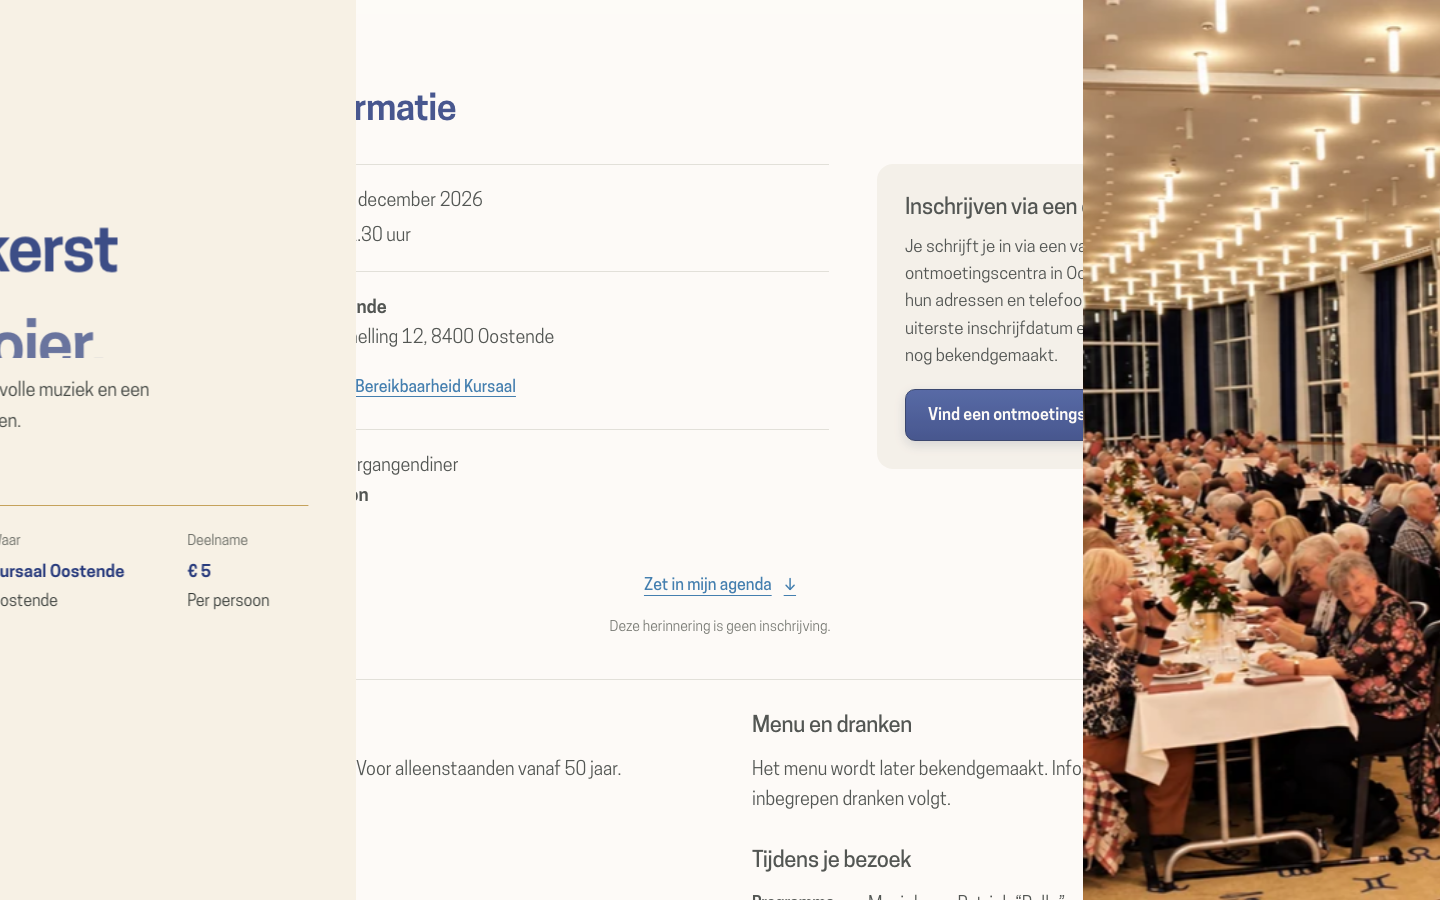
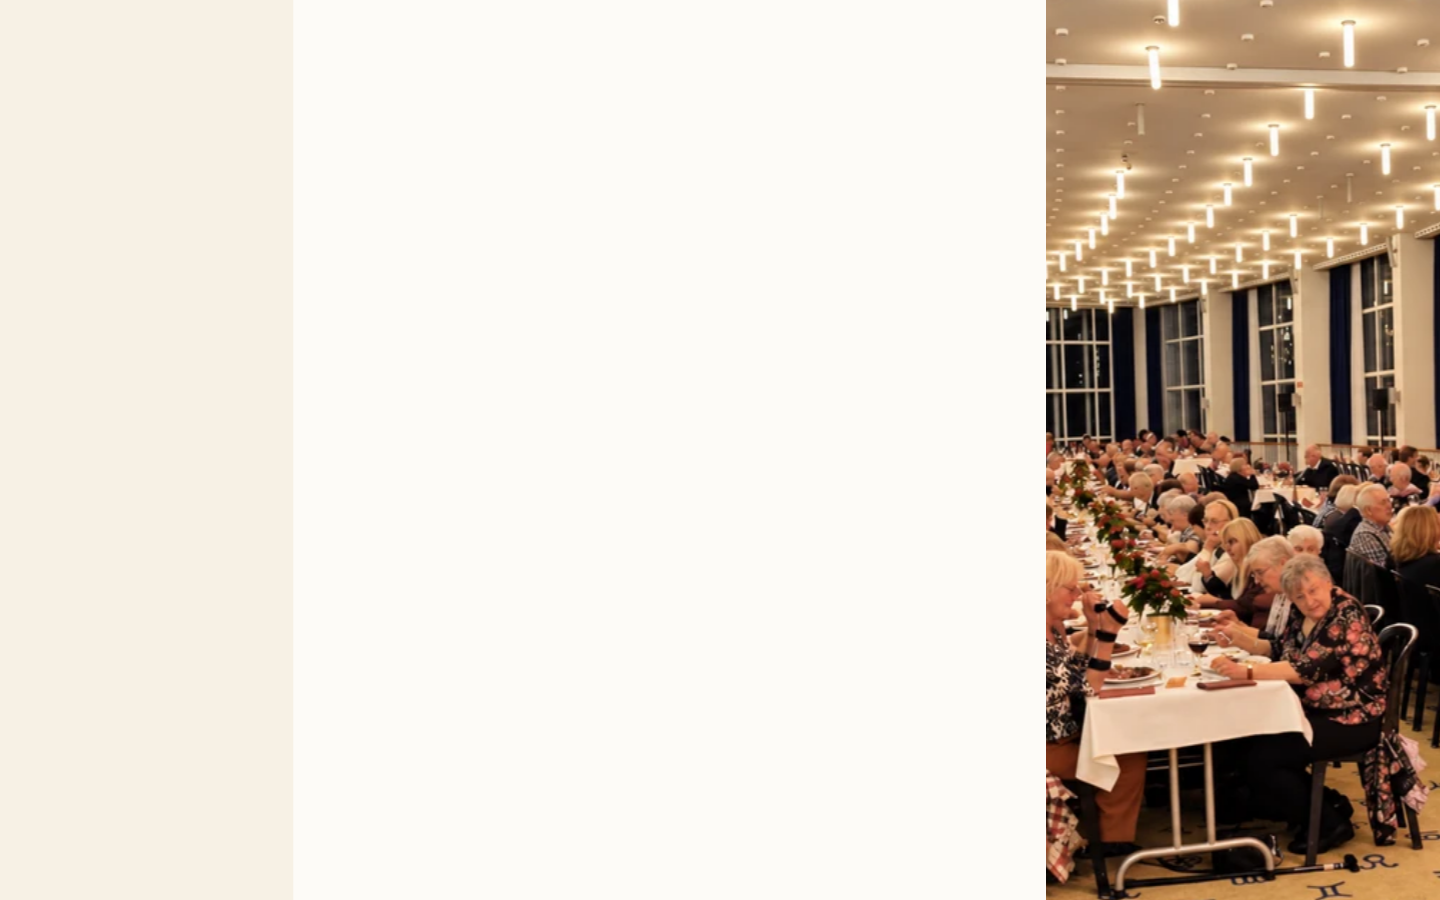
Verfijn hero-overgang met rustige onthulling en gelaagde timing

diff --git a/src/scripts/motion.ts b/src/scripts/motion.ts
@@ -72,7 +72,19 @@ function finishWhenHidden(control: ReturnType<typeof move>) {
   void control.then(() => document.removeEventListener('visibilitychange', finish));
 }
 
+const heroEntrances = new Set<ReturnType<typeof move>>();
+function finishHeroEntrance() {
+  for (const control of heroEntrances) control.complete();
+  heroEntrances.clear();
+}
+
 function startHero() {
+  const entrance = (element: HTMLElement, frames: Parameters<typeof move>[1], options: Parameters<typeof move>[2]) => {
+    const control = move(element, frames, options);
+    heroEntrances.add(control);
+    void control.then(() => heroEntrances.delete(control));
+    return control;
+  };
   const play = () => {
     if (reducedMotion.matches || (location.hash && location.hash !== '#home') || scrollY > 32) return;
     const words = [...document.querySelectorAll<HTMLElement>('.hero-word-text')];
@@ -80,7 +92,7 @@ function startHero() {
     // Individual word masks follow natural wrapping on every screen size.
     words.forEach((word, index) => {
       word.style.willChange = 'transform, opacity';
-      const control = move(word, {
+      const control = entrance(word, {
         opacity: [.15, 1],
         transform: ['translateY(110%)', 'translateY(0)'],
       }, { duration: 1.08, delay: .14 + index * .085 });
@@ -89,7 +101,7 @@ function startHero() {
     });
     const intro = document.querySelector<HTMLElement>('.hero-intro');
     if (intro) {
-      const control = move(intro, {
+      const control = entrance(intro, {
         opacity: [.45, 1], transform: ['translateY(14px)', 'translateY(0)'],
       }, { duration: .8, delay: .32 });
       finishWhenHidden(control);
@@ -100,7 +112,7 @@ function startHero() {
       // A lazy/cold image must not use up its motion while the pixels are missing.
       void photo.decode().then(() => {
         if (reducedMotion.matches || document.hidden || scrollY > 32 || (location.hash && location.hash !== '#home')) return;
-        const control = move(photo, { transform: ['scale(1.045)', 'scale(1)'] }, { duration: 1.25 });
+        const control = entrance(photo, { transform: ['scale(1.045)', 'scale(1)'] }, { duration: 1.25 });
         finishWhenHidden(control);
         void control.then(() => clearMotion(photo));
       }).catch(() => {});
@@ -162,19 +174,42 @@ function startHeroTransition() {
   const right = hero?.querySelector<HTMLElement>('.hero-photo');
   const practical = stage?.querySelector<HTMLElement>('.practical');
   if (!scene || !stage || !hero || !invitation || !left || !right || !practical) return;
+  const copy = hero.querySelector<HTMLElement>('.hero-copy');
+  const image = right.querySelector<HTMLImageElement>('img');
+  const title = practical.querySelector<HTMLElement>('h2');
+  const groups = [...practical.querySelectorAll<HTMLElement>('.practical-composition, .agenda-note, .practical-details')];
+  const smooth = (value: number) => {
+    const t = Math.min(1, Math.max(0, value));
+    return t * t * (3 - 2 * t);
+  };
   let frame = 0;
   let travel = 0;
   let enabled = false;
   const update = () => {
     frame = 0;
     if (!enabled || document.body.classList.contains('menu-open')) return;
-    const progress = Math.min(1, Math.max(0, -scene.getBoundingClientRect().top / travel));
-    // Smooth starts and finishes, with the scroll position always authoritative.
-    const eased = progress * progress * (3 - 2 * progress);
-    left.style.transform = `translate3d(${-eased * 101}%, 0, 0)`;
-    right.style.transform = `translate3d(${eased * 101}%, 0, 0)`;
-    practical.style.transform = `translate3d(0, ${(1 - eased) * 28}px, 0)`;
-    practical.style.opacity = `${.7 + eased * .3}`;
+    const distance = -scene.getBoundingClientRect().top;
+    const progress = distance >= travel - .5 ? 1 : Math.min(1, Math.max(0, distance / travel));
+    // Left opens first; the room follows a fraction later and settles before release.
+    const leftProgress = smooth((progress - .02) / .86);
+    const rightProgress = smooth((progress - .10) / .86);
+    if (progress > 0) finishHeroEntrance();
+    left.style.transform = `translate3d(${-leftProgress * 101}%, 0, 0)`;
+    right.style.transform = `translate3d(${rightProgress * 101}%, 0, 0)`;
+    if (copy) copy.style.opacity = `${1 - smooth(progress / .25)}`;
+    // Independent transform properties preserve the image's load-time zoom.
+    if (image) {
+      image.style.translate = `${-rightProgress * 1.5}% 0`;
+      image.style.scale = `${1 + rightProgress * .04}`;
+    }
+    // Keep the opening quiet until there is room to read the arriving content.
+    const reveal = (element: HTMLElement, start: number, end: number, distance: number) => {
+      const amount = smooth((progress - start) / (end - start));
+      element.style.opacity = `${amount}`;
+      element.style.transform = `translate3d(0, ${(1 - amount) * distance}px, 0)`;
+    };
+    if (title) reveal(title, .58, .82, 12);
+    groups.forEach((group, index) => reveal(group, .66 + index * .025, .92 + index * .01, 18));
     hero.style.visibility = progress === 1 ? 'hidden' : 'visible';
     hero.style.pointerEvents = progress > 0 ? 'none' : '';
     hero.inert = progress > 0;
@@ -187,14 +222,18 @@ function startHeroTransition() {
     scene.removeAttribute('data-split-active');
     scene.style.removeProperty('--split-hero-height');
     scene.style.removeProperty('--split-travel');
+    scene.style.removeProperty('--split-stage-height');
     hero.style.removeProperty('visibility');
     hero.style.removeProperty('pointer-events');
     hero.inert = practical.inert = false;
-    for (const panel of [left, right, practical]) {
+    for (const panel of [left, right, practical, copy, title, ...groups]) {
+      if (!panel) continue;
       panel.style.removeProperty('transform');
       panel.style.removeProperty('opacity');
       panel.style.removeProperty('will-change');
     }
+    image?.style.removeProperty('translate');
+    image?.style.removeProperty('scale');
     // The stacked mobile composition remains readable in ordinary document flow.
     enabled = !reducedMotion.matches && matchMedia('(min-width: 1001px)').matches;
     if (!enabled) return;
@@ -206,13 +245,24 @@ function startHeroTransition() {
     scene.style.setProperty('--split-stage-height', `${stage.getBoundingClientRect().height}px`);
     update();
   };
+  // Layout offsets exclude the reveal transforms, so anchors land precisely
+  // even when their destination is still partway through its entrance.
+  const offsetInStage = (target: HTMLElement) => {
+    let offset = 0;
+    let node: HTMLElement | null = target;
+    while (node && node !== stage) {
+      offset += node.offsetTop;
+      node = node.offsetParent as HTMLElement | null;
+    }
+    return offset;
+  };
   const revealAnchor = () => {
     const target = document.getElementById(decodeURIComponent(location.hash.slice(1)));
     if (enabled && target === hero) {
       window.scrollTo({ top: scrollY + scene.getBoundingClientRect().top, behavior: 'instant' });
       update();
     } else if (enabled && target && practical.contains(target)) {
-      window.scrollTo({ top: scrollY + scene.getBoundingClientRect().top + travel + Math.max(0, target.getBoundingClientRect().top - practical.getBoundingClientRect().top + practical.offsetTop - 24), behavior: 'instant' });
+      window.scrollTo({ top: scrollY + scene.getBoundingClientRect().top + travel + Math.max(0, offsetInStage(target) - 24), behavior: 'instant' });
       update();
     }
   };
@@ -231,7 +281,7 @@ function startHeroTransition() {
   practical.addEventListener('focusin', event => {
     if (!enabled || hero.style.visibility === 'hidden' || !(event.target instanceof HTMLElement)) return;
     const target = event.target;
-    window.scrollTo({ top: scrollY + scene.getBoundingClientRect().top + travel + Math.max(0, target.getBoundingClientRect().top - practical.getBoundingClientRect().top + practical.offsetTop - 120), behavior: 'instant' });
+    window.scrollTo({ top: scrollY + scene.getBoundingClientRect().top + travel + Math.max(0, offsetInStage(target) - 120), behavior: 'instant' });
     update();
   });
   window.addEventListener('scroll', schedule, { passive: true });

diff --git a/DESIGN.md b/DESIGN.md
@@ -487,3 +487,7 @@ Het nieuwste door de gebruiker gekozen zaalbeeld (`kursaal-zaal-v3-*`) vervangt 
 Op verzoek staat praktische informatie direct na de hero en vóór “Voor wie?”. Vanaf 1001px vormen de bestaande ivoren teksthelft en zaalopname twee panelen boven de bestaande praktische inhoud. Een sticky scène koppelt hun tegengestelde horizontale verplaatsing aan 1,1 viewport scrollafstand; omhoog scrollen sluit de panelen weer. De praktische inhoud komt daarbij licht vanuit de diepte naar voren en scrolt na het openen normaal verder, inclusief alle aanvullende gegevens. De navigatie volgt de nieuwe inhoudsvolgorde.
 
 Op gestapelde schermen, bij reduced motion en zonder JavaScript blijven hero en praktische informatie in gewone documentvolgorde staan. Er worden geen wiel- of aanraakbewegingen onderschept. Ankerlinks naar praktische informatie en inschrijven slaan de overgang over; toetsenbordfocus maakt de praktische bediening bereikbaar. De scène gebruikt compositortransforms en alleen op aanvraag een animation frame. Implementatie: `HeroTransition.astro`, `motion.ts` en `motion.css`. Browsercontroles en visuele fasen staan in `qa/hero-split-2026-10-27/`.
+
+### Verfijnde regie van de hero-overgang — 27 oktober 2026
+
+De herotekst vervaagt in het eerste kwart van de scrollbeweging. Het ivoren paneel opent vanaf 2% van de afstand, de foto vanaf 10%; beide zijn vóór het einde volledig uit beeld. Het beeld beweegt binnen het fotovlak maximaal 1,5% met 4% schaalreserve. De praktische titel verschijnt tussen 58 en 82%, de inhoud volgt kort daarna en staat vóór de vrijgave stil. Alle bewegingen volgen dezelfde omkeerbare scrollpositie. Zodra de overgang begint, worden lopende hero-entrees afgerond zodat titelentree en vertrek niet door elkaar lopen. Ankerposities worden uit layoutafstanden berekend, onafhankelijk van de onthullingstransforms. Reduced motion en mobiele documentflow herstellen ook alle nieuwe opacity-, translate- en scale-eigenschappen.
